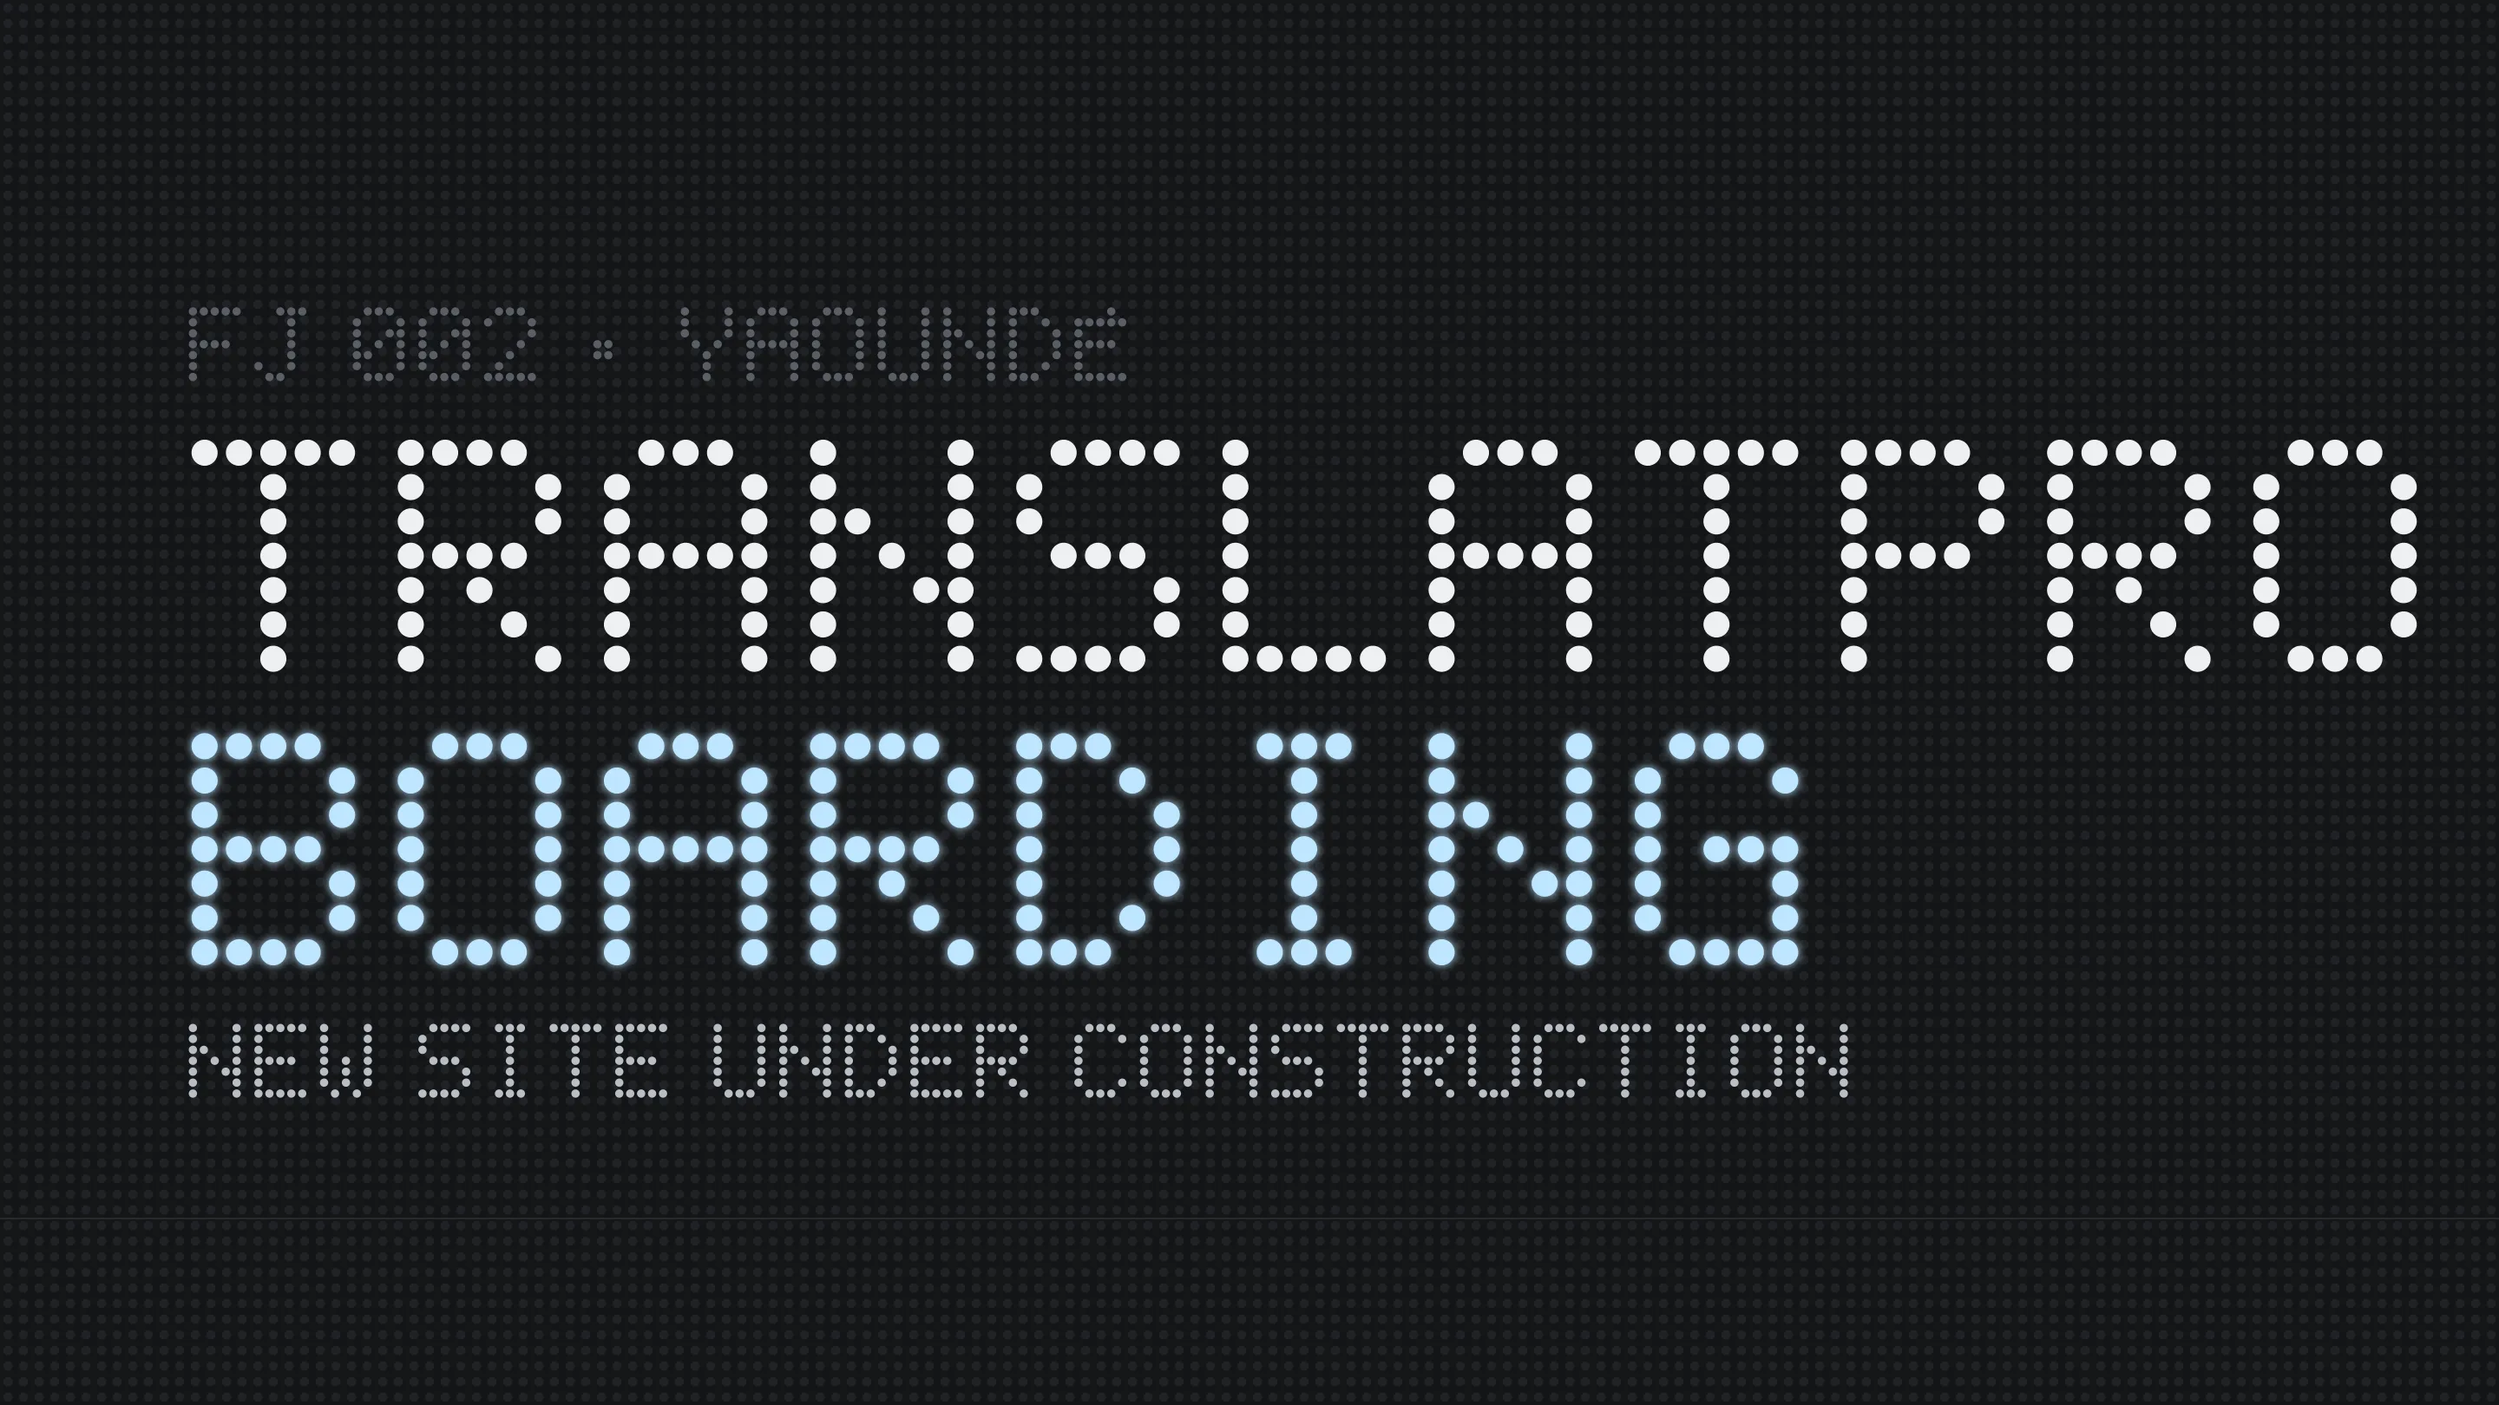
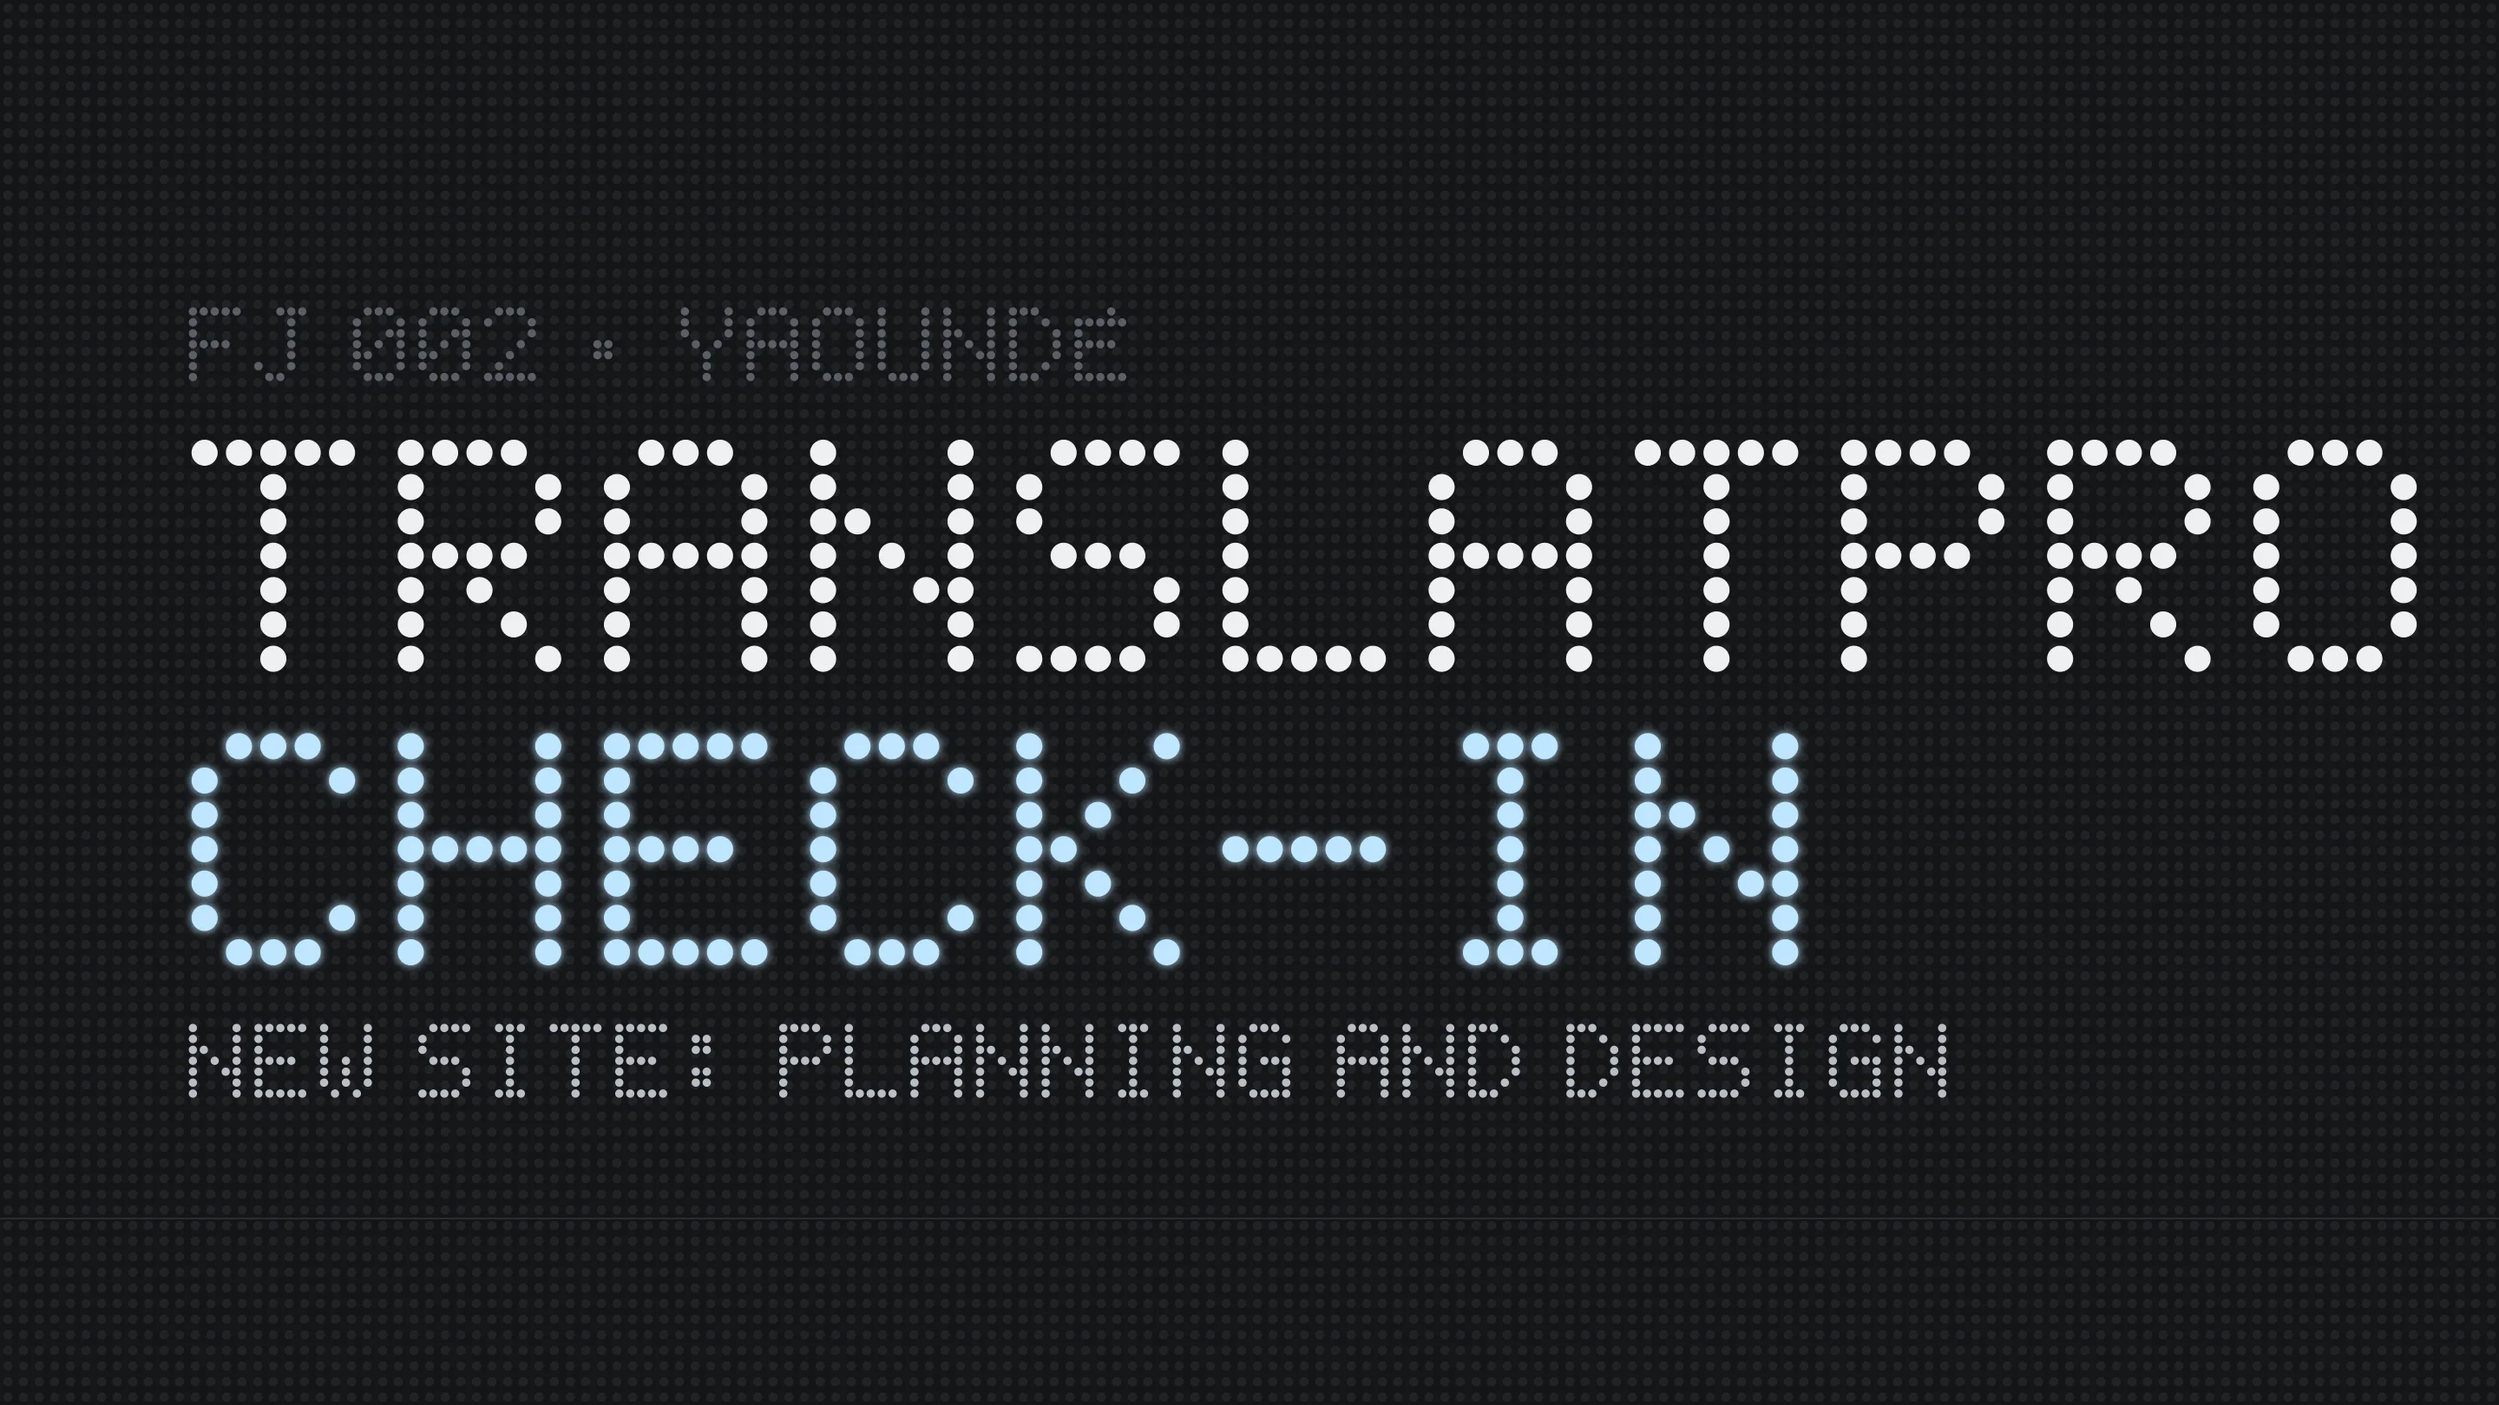
feat: add CHECK-IN status and update project flow for improved project tracking

diff --git a/src/content/projects.ts b/src/content/projects.ts
@@ -14,7 +14,10 @@ import trucks from "../../public/work/trucks.webp";
  * Status codes as shown on the departures board. They stay in English in every language,
  * the way real airport boards do; screen readers get a translated label from the dictionary.
  */
-export type FlightStatus = "LIVE" | "BOARDING" | "ON HOLD";
+export type FlightStatus = "LIVE" | "BOARDING" | "CHECK-IN" | "ON HOLD";
+
+/** Every status, in the order boards and filters list them. */
+export const STATUSES: FlightStatus[] = ["LIVE", "BOARDING", "CHECK-IN", "ON HOLD"];
 
 /** One project ("flight"). Texts that change per language are records keyed by locale. */
 export type Project = {
@@ -111,7 +114,7 @@ export const projects: Project[] = [
     client: { en: "Translation agency", fr: "Agence de traduction", de: "Übersetzungsagentur" },
     route: "CM",
     languages: "FR EN DE",
-    status: "BOARDING",
+    status: "CHECK-IN",
     website: "",
     repo: "",
     onHome: true,
@@ -131,7 +134,7 @@ export const projects: Project[] = [
     name: "FIRST TRUCKS SARL",
     client: { en: "Car parts supplier", fr: "Fournisseur de pièces auto", de: "Autoteilehändler" },
     route: "CM",
-    languages: "FR EN DE",
+    languages: "FR EN",
     status: "LIVE",
     website: "first-trucks-e-commerce-6uzz.vercel.app",
     repo: "https://github.com/fjkun06/first_trucks-e-commerce",
@@ -230,7 +233,10 @@ export const projects: Project[] = [
   },
 ];
 
-/** Live projects are finished and online; the others (boarding, on hold) are still in progress. */
+/**
+ * Live projects are finished and online; the others are still in progress: at check-in (just
+ * started), boarding (being built) or on hold (paused).
+ */
 export function isLive(project: Project): boolean {
   return project.status === "LIVE";
 }

diff --git a/src/components/work/WorkFilter.tsx b/src/components/work/WorkFilter.tsx
@@ -3,7 +3,7 @@
 import { useState } from "react";
 
 import { Led } from "@/components/Led";
-import type { FlightStatus } from "@/content/projects";
+import { STATUSES, type FlightStatus } from "@/content/projects";
 import { fill } from "@/i18n/fill";
 
 type Row = { slug: string; status: FlightStatus; row: React.ReactNode };
@@ -23,10 +23,9 @@ type WorkFilterProps = {
   header?: React.ReactNode;
 };
 
-const STATUSES: FlightStatus[] = ["LIVE", "BOARDING", "ON HOLD"];
-
 /**
- * Status filter for the Work page's board: ALL · LIVE · BOARDING · ON HOLD as LED buttons.
+ * Status filter for the Work page's board: ALL, then one LED button per status that at least
+ * one project has (LIVE · BOARDING · CHECK-IN · ON HOLD), so no button leads to an empty board.
  *
  * - The pressed button is lit in the accent colour and has `aria-pressed="true"`.
  * - Rows that don't match are hidden with the `hidden` attribute (they stay in the HTML, so the
@@ -62,7 +61,9 @@ export function WorkFilter({ rows, text, header }: WorkFilterProps) {
       <div className="rv flex flex-wrap items-center justify-between gap-4 border-t border-rule-board py-5">
         <div role="group" aria-label={text.filterLabel} className="flex flex-wrap gap-2">
           {button("ALL", text.all, text.allName)}
-          {STATUSES.map((s) => button(s, s, text.statusNames[s]))}
+          {STATUSES.filter((s) => rows.some((r) => r.status === s)).map((s) =>
+            button(s, s, text.statusNames[s]),
+          )}
         </div>
         <span
           aria-live="polite"

diff --git a/src/components/project/ProjectSections.test.tsx b/src/components/project/ProjectSections.test.tsx
@@ -7,7 +7,9 @@ import en from "@/locales/en";
 import { FlightStatus, ProjectHero, ProjectStory, stageOf } from "./ProjectSections";
 
 const live = findProject("first-trucks")!;
-const boarding = findProject("translatpro")!;
+const checkIn = findProject("translatpro")!;
+/** No project is boarding right now; the same one, a step further. */
+const boarding = { ...checkIn, status: "BOARDING" as const };
 const onHold = findProject("brytzone")!;
 
 function hero(project = live) {
@@ -55,8 +57,9 @@ describe("<ProjectHero>", () => {
 });
 
 describe("stageOf", () => {
-  it("puts live projects at departure and the others at boarding", () => {
+  it("puts live projects at departure, new ones at check-in, the others at boarding", () => {
     expect(stageOf(live)).toBe(2);
+    expect(stageOf(checkIn)).toBe(0);
     expect(stageOf(boarding)).toBe(1);
     expect(stageOf(onHold)).toBe(1);
   });
@@ -78,6 +81,13 @@ describe("<FlightStatus>", () => {
       "href",
       "/en/contact",
     );
+  });
+
+  it("shows a project that has just started at check-in", () => {
+    status(checkIn);
+    expect(screen.getByText(en.project.checkIn)).toBeInTheDocument();
+    expect(screen.getAllByRole("listitem")[0]).toHaveAttribute("aria-current", "step");
+    expect(screen.getByRole("link", { name: en.project.book.toUpperCase() })).toBeInTheDocument();
   });
 
   it("says when a project is on hold", () => {

diff --git a/src/components/project/ProjectSections.tsx b/src/components/project/ProjectSections.tsx
@@ -161,15 +161,17 @@ export function ProjectStory({
   );
 }
 
-/** Which progress stage a project is at: 0 check-in, 1 boarding, 2 departed. */
+/** Which progress stage a project is at: 0 check-in, 1 boarding (or paused there), 2 departed. */
 export function stageOf(project: Project): number {
-  return isLive(project) ? 2 : 1;
+  if (isLive(project)) return 2;
+  return project.status === "CHECK-IN" ? 0 : 1;
 }
 
 /**
  * "Flight status": where the project stands, in a sentence and as three stages on a dotted line
  * (check-in, boarding, departed), the current one lit.
  * - Live: all three lit, "finished and online since…".
+ * - Check-in: the first stage is lit, the project has just started; invites you to book yours.
  * - Boarding: the current stage blinks, the site is being built; invites you to book yours.
  * - On hold: the current stage is dimmed, the project is paused.
  */
@@ -190,7 +192,9 @@ export function FlightStatus({
     ? fill(text.live, { year: project.year })
     : project.status === "ON HOLD"
       ? text.onHold
-      : text.boarding;
+      : project.status === "CHECK-IN"
+        ? text.checkIn
+        : text.boarding;
 
   const toneOf = (i: number): LedTone =>
     i < current ? "white" : i > current ? "dim" : project.status === "ON HOLD" ? "grey" : "accent";

diff --git a/src/components/work/WorkFilter.test.tsx b/src/components/work/WorkFilter.test.tsx
@@ -15,7 +15,12 @@ const text = {
   all: "ALL",
   allName: "All projects",
   count: { one: "{n} flight", other: "{n} flights" },
-  statusNames: { LIVE: "Status: live", BOARDING: "Status: boarding", "ON HOLD": "Status: on hold" },
+  statusNames: {
+    LIVE: "Status: live",
+    BOARDING: "Status: boarding",
+    "CHECK-IN": "Status: check-in",
+    "ON HOLD": "Status: on hold",
+  },
 };
 const visible = () =>
   ["Alpha", "Bravo", "Charlie", "Delta"].filter((n) => !screen.getByText(n).closest("[hidden]"));
@@ -50,6 +55,12 @@ describe("<WorkFilter>", () => {
     render(<WorkFilter rows={rows} text={text} />);
     await userEvent.click(screen.getByRole("button", { name: "Status: on hold" }));
     expect(screen.getByText("01 FLIGHT")).toBeInTheDocument();
+  });
+
+  it("only offers statuses that some project has", () => {
+    render(<WorkFilter rows={rows} text={text} />);
+    expect(screen.getByRole("button", { name: "Status: boarding" })).toBeInTheDocument();
+    expect(screen.queryByRole("button", { name: "Status: check-in" })).toBeNull();
   });
 
   it("announces the count to screen readers and names the group", () => {

diff --git a/src/components/work/WorkBoard.tsx b/src/components/work/WorkBoard.tsx
@@ -4,7 +4,7 @@ import { Led } from "@/components/Led";
 import { Arrow } from "@/components/site/Arrow";
 import { StatusLed } from "@/components/ui/StatusLed";
 import { WorkFilter } from "@/components/work/WorkFilter";
-import { projectHref, type Project } from "@/content/projects";
+import { projectHref, STATUSES, type FlightStatus, type Project } from "@/content/projects";
 import type { Locale } from "@/i18n/config";
 import type { Routes } from "@/i18n/routes";
 import type { Dictionary } from "@/locales/en";
@@ -92,11 +92,9 @@ export function WorkBoard({ lang, projects, text, status, to }: WorkBoardProps) 
         all: text.filters.all,
         allName: text.filters.allName,
         count: text.count,
-        statusNames: {
-          LIVE: `${status.label}: ${status.LIVE}`,
-          BOARDING: `${status.label}: ${status.BOARDING}`,
-          "ON HOLD": `${status.label}: ${status["ON HOLD"]}`,
-        },
+        statusNames: Object.fromEntries(
+          STATUSES.map((s) => [s, `${status.label}: ${status[s]}`]),
+        ) as Record<FlightStatus, string>,
       }}
     />
   );

diff --git a/src/components/ui/StatusLed.tsx b/src/components/ui/StatusLed.tsx
@@ -10,7 +10,7 @@ type StatusLedProps = {
 
 /**
  * A project's status as it appears on the departures board:
- * LIVE lit in the accent colour, BOARDING blinking, ON HOLD dimmed.
+ * LIVE lit in the accent colour, BOARDING blinking, CHECK-IN steady in grey, ON HOLD dimmed.
  * Status is shown by the lettering alone (no coloured dot), and screen readers hear
  * the translated status ("Status: live").
  */
@@ -24,6 +24,7 @@ export function StatusLed({ status, text, pitch = 4 }: StatusLedProps) {
       {status === "BOARDING" && (
         <Led text="BOARDING" pitch={pitch} tone="white" className="blink" />
       )}
+      {status === "CHECK-IN" && <Led text="CHECK-IN" pitch={pitch} tone="grey" />}
       {status === "ON HOLD" && <Led text="ON HOLD" pitch={pitch} tone="dim" glow={false} />}
     </span>
   );

diff --git a/src/locales/fr.ts b/src/locales/fr.ts
@@ -51,6 +51,7 @@ const fr: Dictionary = {
     LIVE: "en ligne",
     BOARDING: "embarquement, en cours",
     "ON HOLD": "en pause",
+    "CHECK-IN": "enregistrement, tout juste commencé",
   },
   home: {
     hero: {
@@ -226,6 +227,8 @@ const fr: Dictionary = {
     noRoute: "Aucune",
     statusTitle: "ÉTAT DU VOL",
     live: "Terminé et en ligne depuis {year}.",
+    checkIn:
+      "Enregistrement : le projet vient de commencer, d’abord par la conception et le design. Cette page se remplira à l’embarquement.",
     boarding:
       "Embarquement : le nouveau site est en cours de construction. Cette page se remplira au décollage.",
     onHold: "En attente : le projet est en pause pour l’instant et reprendra plus tard.",

diff --git a/src/locales/de.ts b/src/locales/de.ts
@@ -51,6 +51,7 @@ const de: Dictionary = {
     LIVE: "online",
     BOARDING: "Boarding, in Arbeit",
     "ON HOLD": "pausiert",
+    "CHECK-IN": "Check-in, gerade begonnen",
   },
   home: {
     hero: {
@@ -224,6 +225,8 @@ const de: Dictionary = {
     noRoute: "Keine",
     statusTitle: "FLUGSTATUS",
     live: "Fertig und online seit {year}.",
+    checkIn:
+      "Check-in: Das Projekt hat gerade begonnen, zuerst mit Planung und Design. Diese Seite füllt sich, sobald es zum Boarding geht.",
     boarding:
       "Boarding: Die neue Website wird gerade gebaut. Diese Seite füllt sich, sobald sie abhebt.",
     onHold: "Pausiert: Das Projekt ruht im Moment und geht später weiter.",

diff --git a/src/locales/en.ts b/src/locales/en.ts
@@ -53,6 +53,7 @@ const en = {
     LIVE: "live",
     BOARDING: "boarding, in progress",
     "ON HOLD": "on hold",
+    "CHECK-IN": "check-in, just started",
   },
   home: {
     hero: {
@@ -223,6 +224,8 @@ const en = {
     noRoute: "None",
     statusTitle: "FLIGHT STATUS",
     live: "Finished and online since {year}.",
+    checkIn:
+      "Check-in: the project has just started, with planning and design first. This page fills in as it moves to boarding.",
     boarding:
       "Boarding: the new site is being built right now. This page fills in once it takes off.",
     onHold: "On hold: the project is paused for now and will pick up again later.",

diff --git a/src/components/home/Marquee.tsx b/src/components/home/Marquee.tsx
@@ -4,7 +4,7 @@ import { Led } from "@/components/Led";
 
 /** The band's text. It mixes all three languages on purpose, like a real departures board. */
 export const MARQUEE_TEXT =
-  "HERZOG TRAD' LIVE  ·  TRANSLATPRO BOARDING  ·  FIRST TRUCKS SARL LIVE  ·  NEXT DEPARTURE: YOUR PROJECT  ·  PROCHAIN DÉPART : VOTRE PROJET  ·  NÄCHSTER ABFLUG: IHR PROJEKT  ·  ";
+  "HERZOG TRAD' LIVE  ·  TRANSLATPRO CHECK-IN  ·  FIRST TRUCKS SARL LIVE  ·  NEXT DEPARTURE: YOUR PROJECT  ·  PROCHAIN DÉPART : VOTRE PROJET  ·  NÄCHSTER ABFLUG: IHR PROJEKT  ·  ";
 
 type MarqueeProps = {
   /** Where the band leads (the contact page). */

diff --git a/src/components/ui/WipBand.tsx b/src/components/ui/WipBand.tsx
@@ -4,7 +4,7 @@ import type { Dictionary } from "@/locales/en";
 
 /**
  * Dark strip across the top of an in-progress project's picture: "Work in progress" and the
- * status in LED dots (BOARDING blinking, ON HOLD dimmed), over a dotted LED line.
+ * status in LED dots (see <StatusLed>), over a dotted LED line.
  * Put it inside a `relative` box, next to the picture (which gets `.wip-media`).
  */
 export function WipBand({
